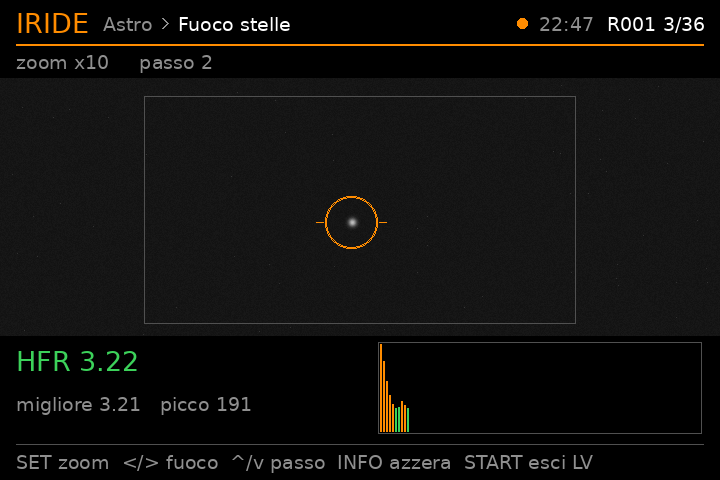
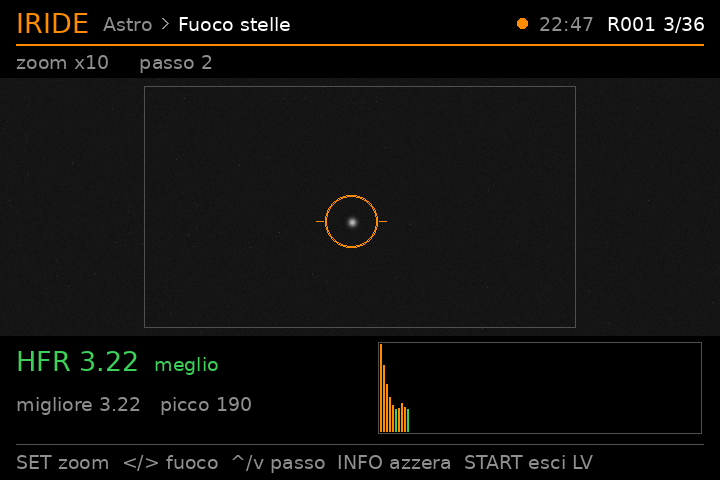
Fuoco sulle stelle: misura corretta anche molto sfocata, ricerca solo nel riquadro
- Apertura di misura adattiva: l'HFR cresce sempre con la sfocatura (prima si fermava a ~12)
- Area di ricerca uguale al riquadro disegnato (prima arrivava sotto il pannello)
- Candidato scelto dai pixel intorno, almeno 4 pixel di stella: niente pixel caldi
- Tendenza meglio/peggio e consiglio se la stella e' satura
- Simulatore: 91 test

diff --git a/simulator/preview.c b/simulator/preview.c
@@ -335,6 +335,30 @@ int main(void)
     }
     make_sky(2.0f, 0.0f, 300, 200);
     { int h, p, cx, cy, r; CHECK(!hfr_measure(&h, &p, &cx, &cy, &r), "cielo senza stelle: nessuna misura"); }
+    {
+        /* molto sfocata: l'HFR deve continuare a crescere (prima si fermava a ~12 e poi calava) */
+        float sg[] = { 2, 5, 8, 12, 16, 22 };
+        int prev = 0, mono = 1, h, p, cx, cy, r;
+        for (unsigned i = 0; i < COUNT(sg); i++)
+        {
+            make_sky(sg[i], 200.0f, 360, 220);
+            if (!hfr_measure(&h, &p, &cx, &cy, &r) || h <= prev || fabsf((float)h / 100.0f - sg[i] * 1.2533f) > 0.15f * sg[i] * 1.2533f) mono = 0;
+            prev = h;
+        }
+        CHECK(mono, "HFR cresce sempre con la sfocatura, fino a sigma 22 (ultima %.1f, apertura %d px)", (double)prev / 100.0, r);
+        /* stella sotto il pannello in basso, fuori dal riquadro: non va scelta */
+        make_sky(2.0f, 160.0f, 360, 360);
+        CHECK(!hfr_measure(&h, &p, &cx, &cy, &r), "stella nascosta dal pannello in basso: ignorata");
+        /* due pixel caldi vicini non sono una stella */
+        make_sky(2.0f, 0.0f, 300, 200);
+        lvbuf[200 * 1440 + 400 * 2 + 1] = 255; lvbuf[200 * 1440 + 401 * 2 + 1] = 240;
+        CHECK(!hfr_measure(&h, &p, &cx, &cy, &r), "due pixel caldi vicini: nessuna stella");
+        /* un pixel caldo piu' luminoso di una stella debole: vince la stella */
+        make_sky(1.8f, 34.0f, 300, 180);
+        lvbuf[250 * 1440 + 450 * 2 + 1] = 255;
+        int ok = hfr_measure(&h, &p, &cx, &cy, &r);
+        CHECK(ok && ABS(cx - 300) <= 1 && ABS(cy - 180) <= 1, "pixel caldo piu' luminoso di una stella debole: misurata la stella (%d, %d)", cx, cy);
+    }
 
     /* ---------- salvataggio su scheda */
     P.roll_num = 7; P.lat100 = 4400; P.prof[2].valid = 1; P.prof[2].iso = 96;

diff --git a/CHANGELOG.md b/CHANGELOG.md
@@ -13,8 +13,13 @@
 - Animazioni più regolari: un fotogramma più lento del solito non le ferma più a metà
 - In Live View Iride si ridisegna ogni 250 ms, così il menu Canon che ML risveglia ogni 2 secondi non si vede sopra
 - Corretto: un testo che finisce con uno spazio poteva far leggere oltre la sua fine
+- **Fuoco sulle stelle, tre correzioni nella misura:**
+  - con la stella molto sfocata l'HFR si fermava a circa 12 (e poteva perfino calare girando nel verso sbagliato): ora l'apertura di misura si allarga da sola e il valore cresce sempre con la sfocatura (provato fino a 26)
+  - la stella veniva cercata anche sotto il pannello in basso, dove non si vede: ora l'area di ricerca è esattamente il riquadro disegnato
+  - un pixel caldo più luminoso di una stella debole poteva "vincere" e far dire "nessuna stella"; due pixel caldi vicini potevano essere presi per una stella. Ora il candidato si sceglie dai pixel intorno e servono almeno 4 pixel di stella
+  - accanto all'HFR compare "meglio" o "peggio" rispetto alle misure precedenti; se la stella è satura il consiglio è di abbassare l'ISO
 - Menu Astro e Foto: lo stato delle voci si ricalcola ogni 300 ms invece che a ogni fotogramma
-- Simulatore: 87 test, con 6000 tasti a caso su tutte le schermate controllati con AddressSanitizer
+- Simulatore: 91 test, con 6000 tasti a caso su tutte le schermate controllati con AddressSanitizer
 
 ## 1.0 – 1 novembre 2026
 - **Descrizioni dei rullini riscritte e verificate** su schede tecniche e prove: due righe per pellicola, carattere e uso ideale. Corrette le imprecisioni: Delta 3200 (ISO reale 1000, a 3200 è già tirata), CineStill 800T (pellicola cinema al tungsteno, aloni rossi, di giorno vira al blu), Ektar (la grana più fine, calca i rossi sulla pelle), Superia (verdi intensi, palette fresca), Velvia (tolleranza minima, meglio in luce morbida), Ektachrome E100 (neutra con tendenza fredda) e le altre. Stesse descrizioni nei preset XMP

diff --git a/README.md b/README.md
@@ -5,7 +5,7 @@ Un'interfaccia a tutto schermo, animata, con menu dedicati ad **astrofotografia*
 
 *English: custom full-screen UI for the Canon EOS 6D (fw 1.1.6) running on Magic Lantern — astrophotography tools (NPF, intervalometer presets, HFR star focus, polar alignment, sky calendar), photo tools (HDR, focus stacking, Dual ISO, ETTR, ND), film-roll simulation and user profiles. UI in Italian.*
 
-> ⚠ **Software sperimentale.** Prime prove su una 6D reale: rullini e nomi dei file funzionano. Il resto è verificato su un simulatore che esegue lo stesso codice (87 test) ed è compilato contro il firmware 6D 1.1.6. Usalo a tuo rischio. Non è affiliato né approvato da Canon.
+> ⚠ **Software sperimentale.** Prime prove su una 6D reale: rullini e nomi dei file funzionano. Il resto è verificato su un simulatore che esegue lo stesso codice (91 test) ed è compilato contro il firmware 6D 1.1.6. Usalo a tuo rischio. Non è affiliato né approvato da Canon.
 
 | | | |
 |---|---|---|
@@ -77,7 +77,7 @@ La compilazione e i test girano anche in automatico con GitHub Actions a ogni mo
 
 ```
 cd simulator && mkdir -p out
-gcc -std=gnu99 -Ishim -o preview preview.c -lm && ./preview   # 87 test
+gcc -std=gnu99 -Ishim -o preview preview.c -lm && ./preview   # 91 test
 pip install astropy pillow
 python3 check_astro.py   # confronto astronomico con astropy
 python3 render.py        # schermate in png/
